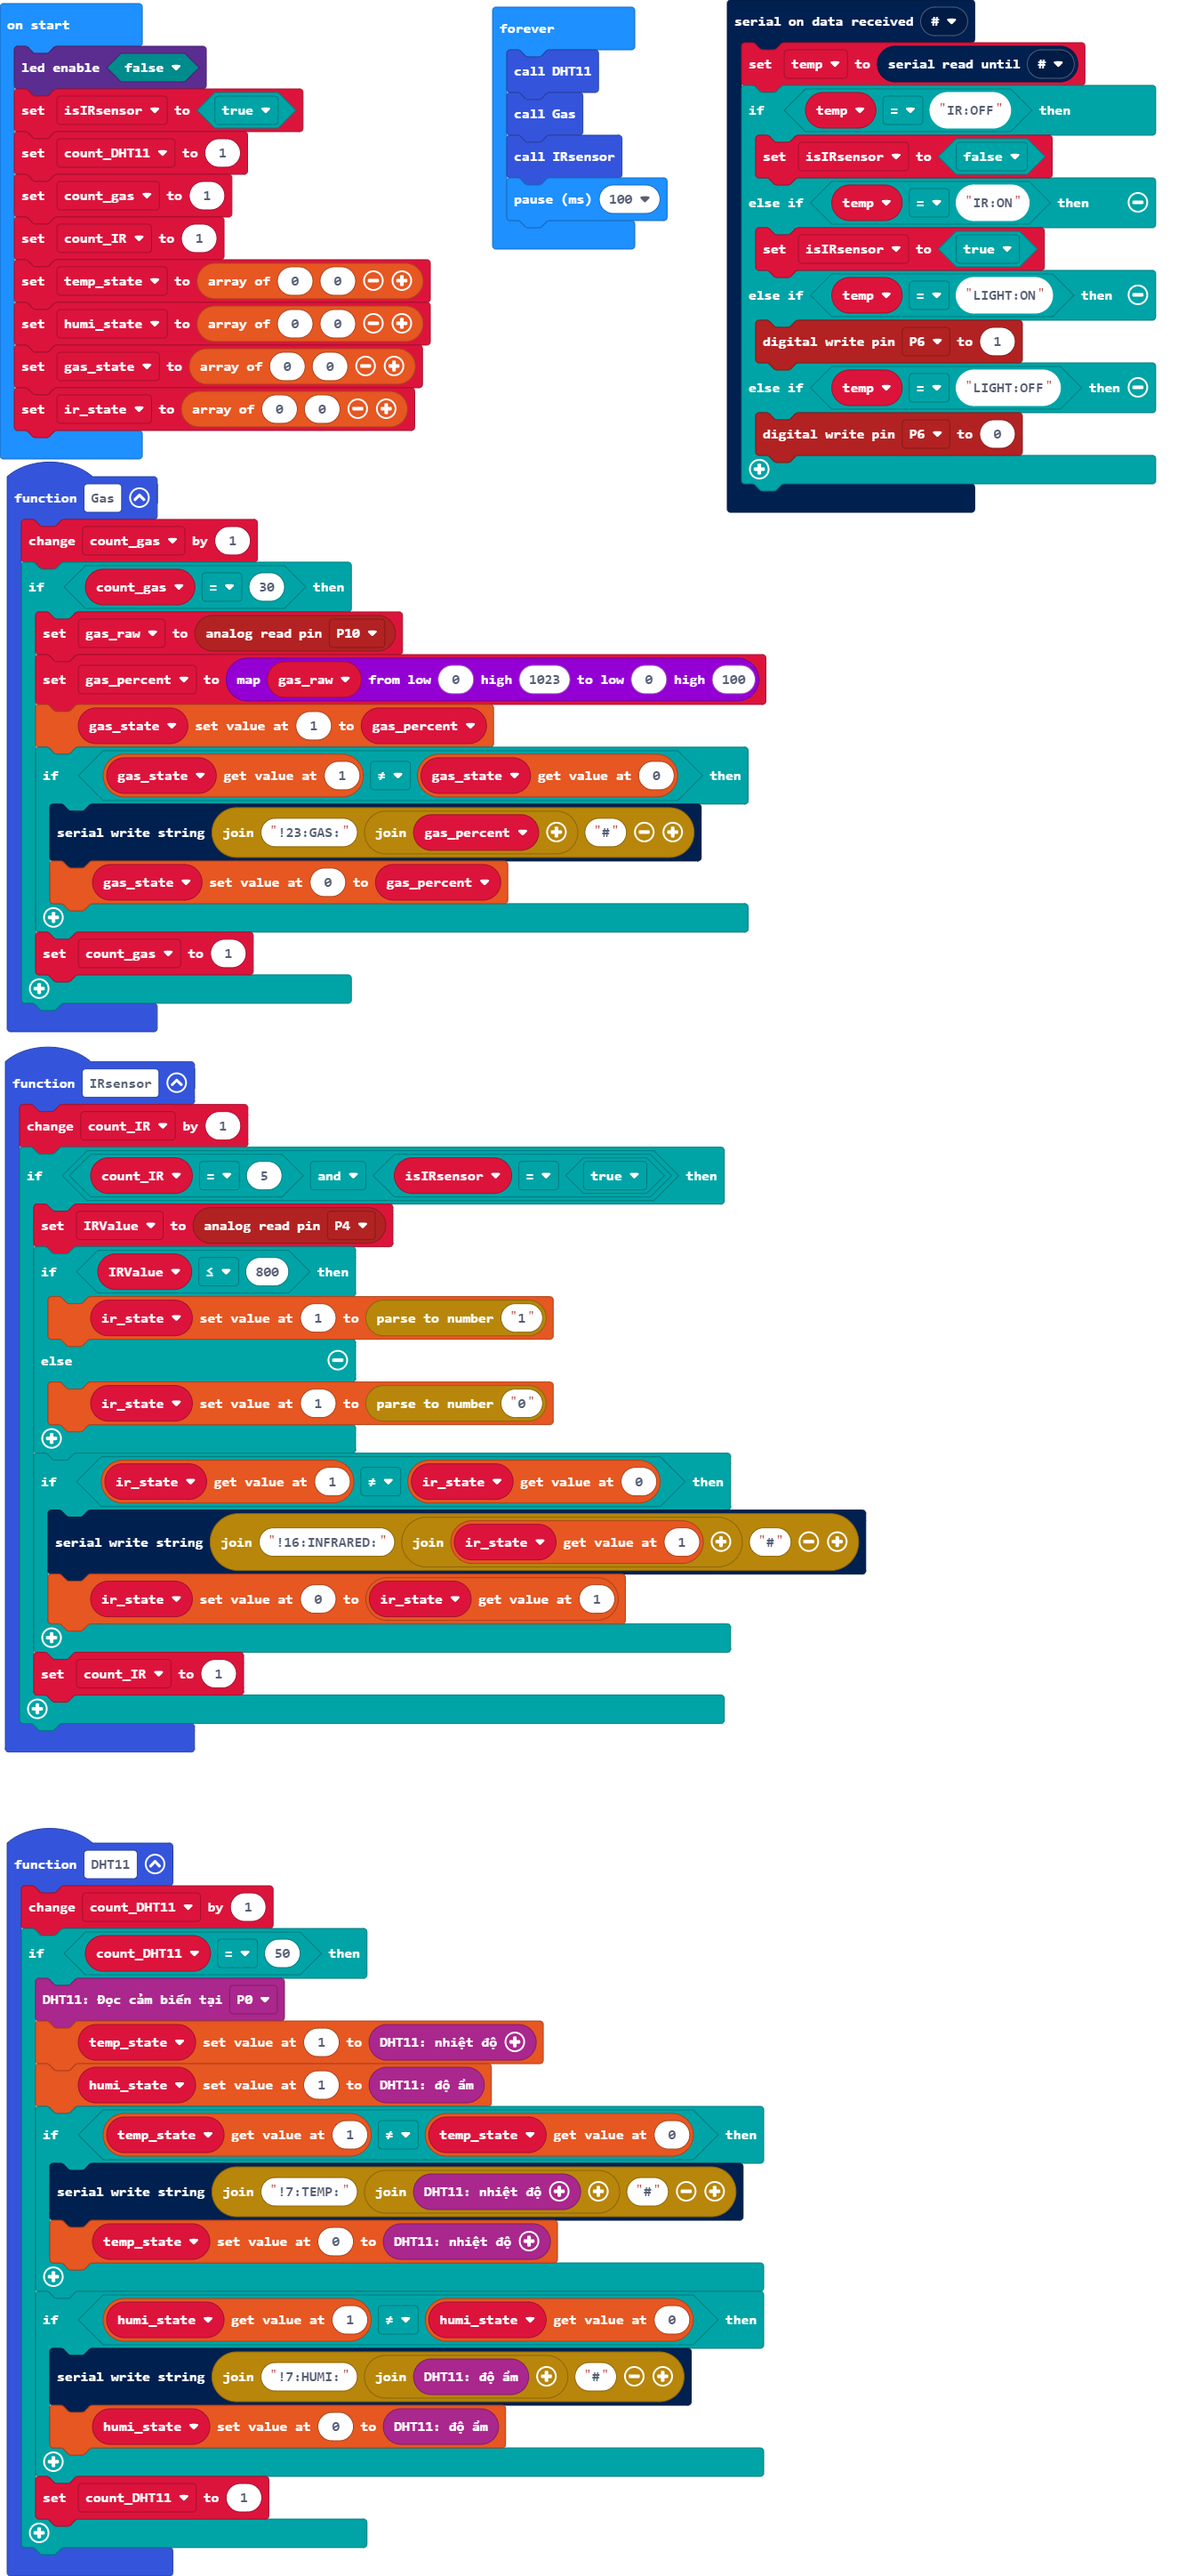
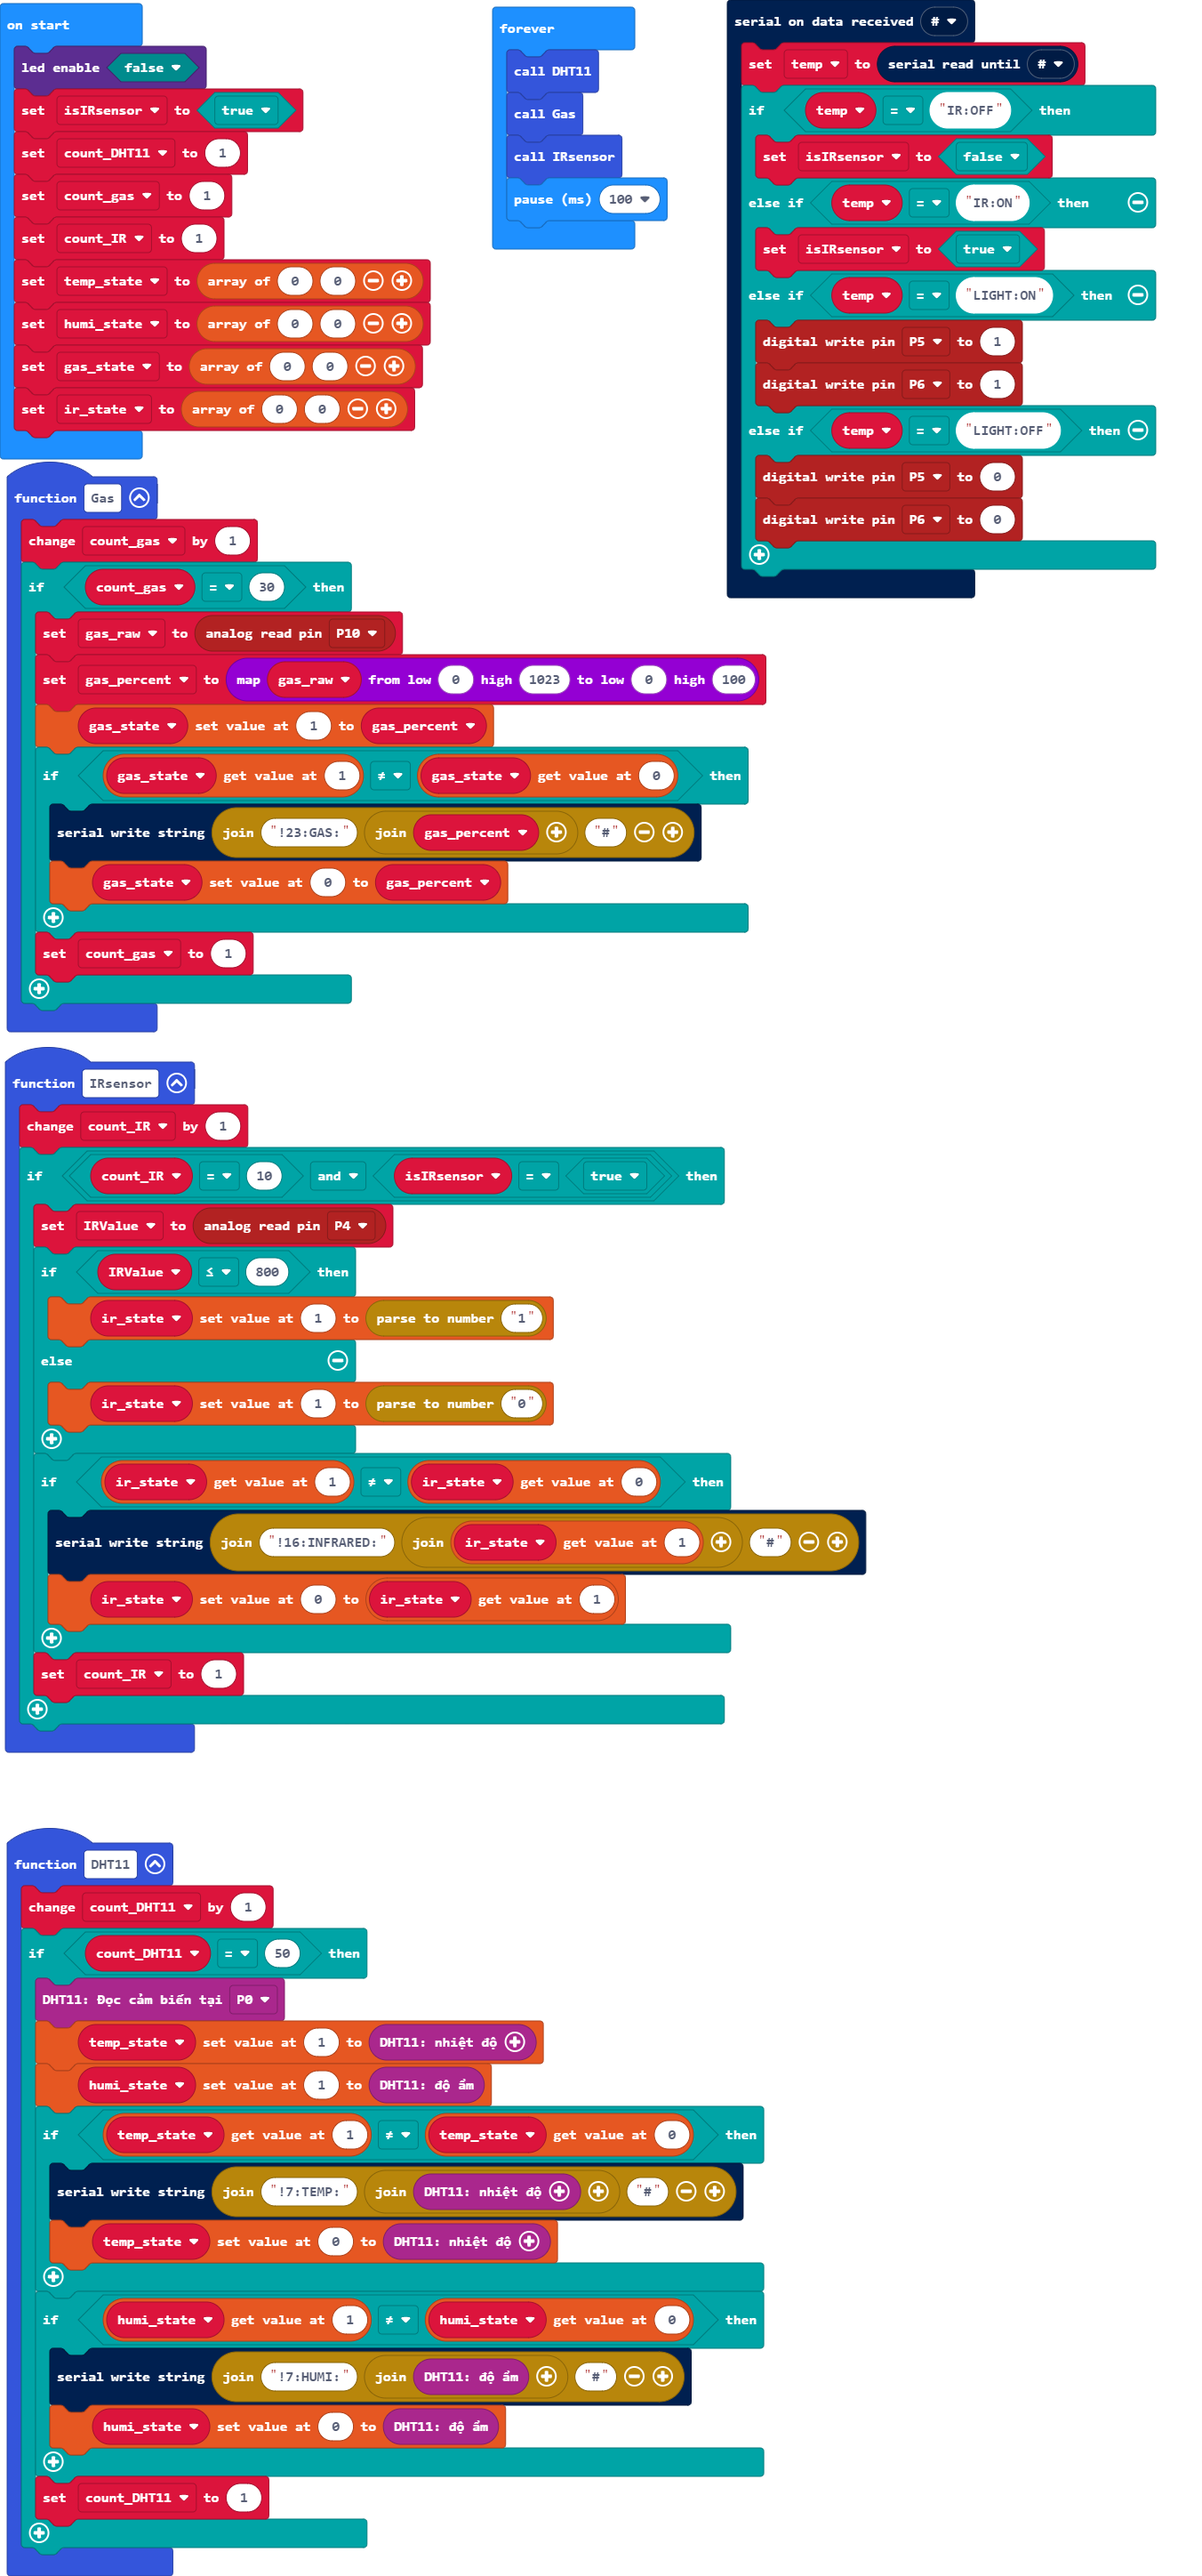
Update main.blocks, main.ts

Changed region(s): [[0.5902, 0.1243, 0.963, 0.2486]]

diff --git a/main.ts b/main.ts
@@ -17,7 +17,7 @@ function DHT11 () {
 }
 function IRsensor () {
     count_IR += 1
-    if (count_IR == 5 && isIRsensor == true) {
+    if (count_IR == 10 && isIRsensor == true) {
         IRValue = pins.analogReadPin(AnalogPin.P4)
         if (IRValue <= 800) {
             ir_state[1] = parseFloat("1")
@@ -51,8 +51,10 @@ serial.onDataReceived(serial.delimiters(Delimiters.Hash), function () {
     } else if (temp == "IR:ON") {
         isIRsensor = true
     } else if (temp == "LIGHT:ON") {
+        pins.digitalWritePin(DigitalPin.P5, 1)
         pins.digitalWritePin(DigitalPin.P6, 1)
     } else if (temp == "LIGHT:OFF") {
+        pins.digitalWritePin(DigitalPin.P5, 0)
         pins.digitalWritePin(DigitalPin.P6, 0)
     }
 })
